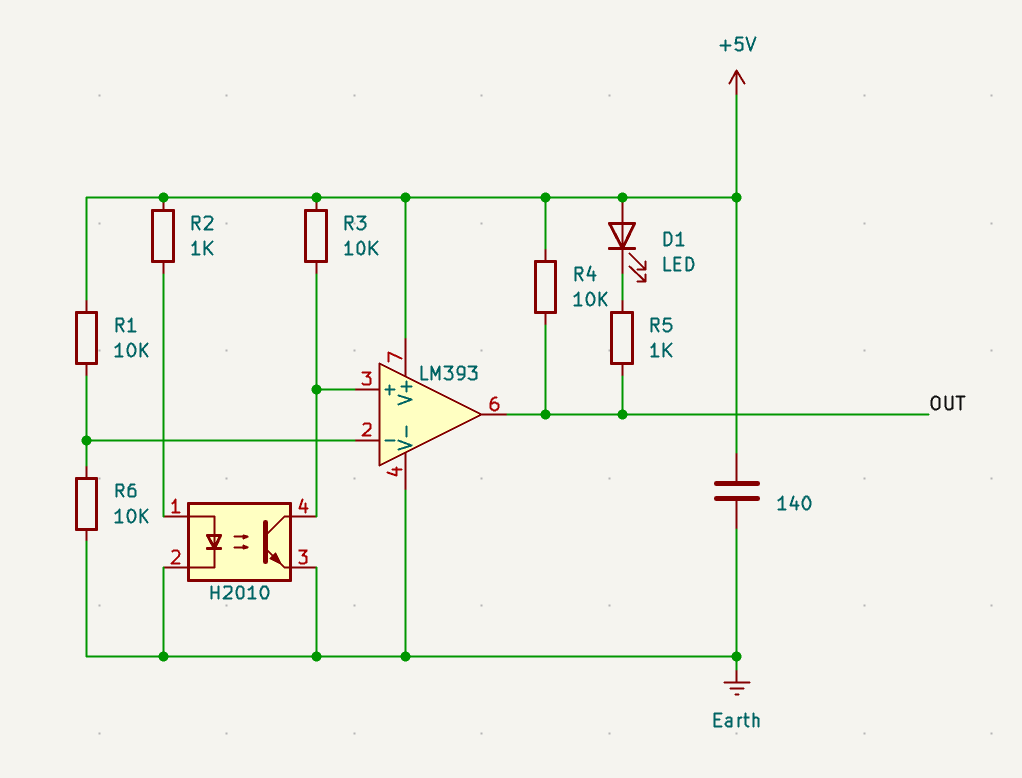
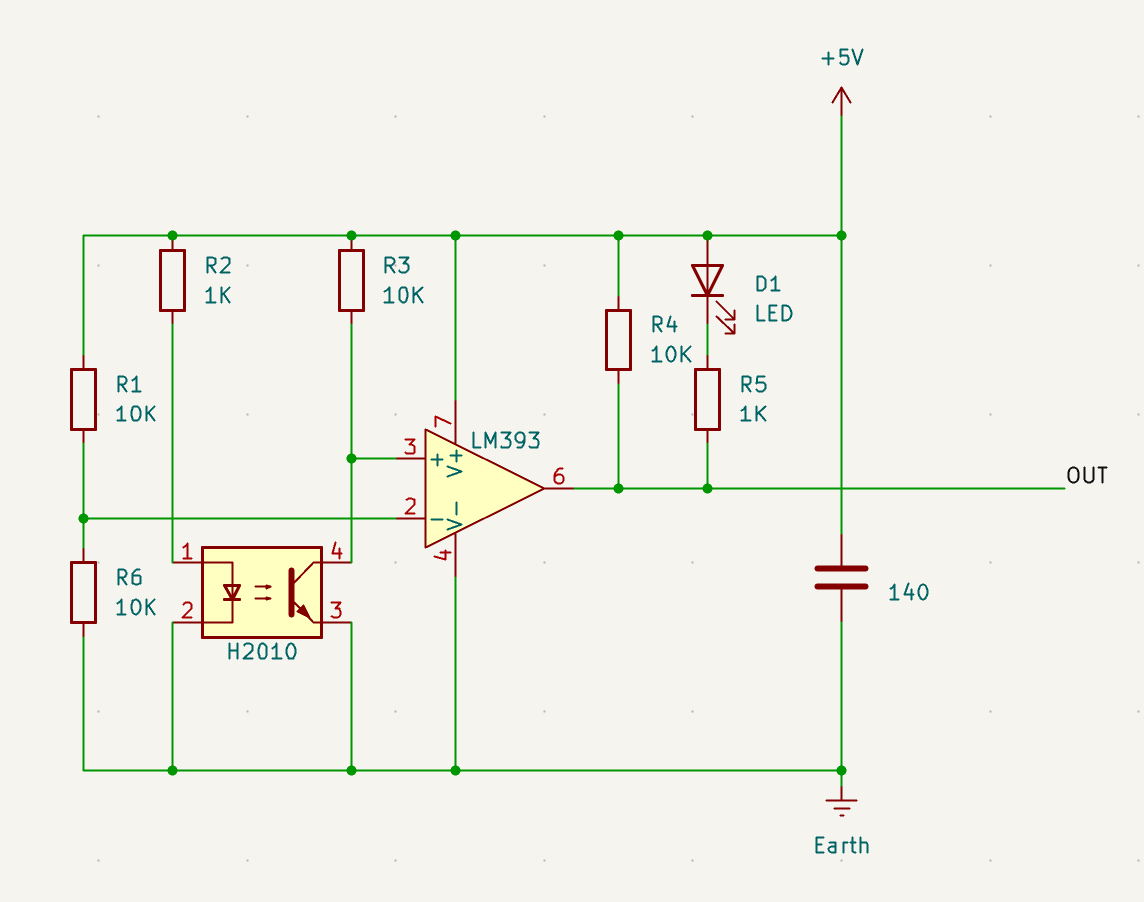
nice

Changed region(s): [[0.0607, 0.2468, 0.9706, 0.9563], [0.6977, 0.617, 0.819, 0.6787], [0.6977, 0.0308, 0.7583, 0.1234]]

diff --git a/report/Contents/General/de/LichtschrankeE118.tex b/report/Contents/General/de/LichtschrankeE118.tex
@@ -541,16 +541,7 @@ Die Einweg Lichtschranke Typ F249 (vgl. \ref{pic:F249}) ist ein Sensor zur Messu
 
 
 \subsection{Technische Daten der Lichtschranke} 
-Die Lichtschranke F249 lässt sich mittels 4 Pins an den Microkontroller anschließen. Hierzu werden die 5V Spannungsversorgung,  die Masse und die Ausgänge verbunden. Bei den Ausgängen können sowohl digitale als auch analoge Signale ausgegeben werden \cite{Roboter-Bausatz:2026c}. Abhängig vom Anwendungsfall muss lediglich ein Signalausgang mit dem Microkontroller verbunden werden. 
-
-\begin{center}
-	\begin{figure}[h!]
-		\includegraphics[scale=0.5]{../../Images/F249/F249SP.png} 
-		\caption{Schaltplan des Sensor nach \cite{SunFounder:2025}}
-		\label{pic:SchaltplanF249}
-	\end{figure}
-\end{center}
-
+Die Lichtschranke F249 lässt sich mittels 4 Pins an den Microkontroller anschließen. Hierzu werden die 5V Spannungsversorgung,  die Masse und die Ausgänge verbunden. Bei den Ausgängen können sowohl digitale als auch analoge Signale ausgegeben werden \cite{Roboter-Bausatz:2026c}. Abhängig vom Anwendungsfall muss lediglich ein Signalausgang mit dem Microkontroller verbunden werden.  
 
 \begin{table}[h!]
 	\caption{Spezifikationen des F249 Infrarot Geschwindigkeits-/Drehzahlsensors \cite{Roboter-Bausatz:2026c}}
@@ -585,11 +576,44 @@ Die Lichtschranke F249 lässt sich mittels 4 Pins an den Microkontroller anschli
 		\label{TabelleSpezifikationF249}
 	\end{center}
 \end{table}
-\subsection{Bibliothek}
-\subsubsection{Beschreibung}
+
+m Grundlegenden besteht der Sensor aus mehreren einzelnen Komponenten (vgl. \ref{pic:SchaltplanF249}). Auf der Platine befinden sich neben einer 4-poligen Pin-Steckerleiste mehrere Widerstände, eine Infrarotdiode, ein Fototransistor, eine LED sowie ein Spannungswandler. Die LEDs signalisieren in diesem Fall sowohl eine korrekte Spannungsversorgung als auch das Schaltsignal der Lichtschranke. Der Spannungswandler sorgt dabei für die Verstärkung beziehungsweise Aufbereitung der Signale, damit diese vom Mikrocontroller ausgewertet werden können. Er nutzt die halbe Versorgungsspannung als Referenzspannung und somit als Schwellwert.
+Wird der Lichtstrahl unterbrochen, fließt kein Strom mehr durch den Fototransistor und der Pull-up-Widerstand R3 zieht das Signal auf 5 $V$ nach oben. Der Spannungswandler vergleicht anschließend das Sensorsignal mit der Referenzspannung und gibt ein positives Signal aus, wenn die anliegende Spannung über der Referenzspannung liegt. Liegt die Spannung darunter, wird ein Signal von 0 $V$ ausgegeben.
+Hierbei können analoge Signale Werte zwischen 0 $V$ und der angelegten Versorgungsspannung (üblicherweise 3{,}3 $V$ oder 5 $V$) annehmen. Die vom Spannungswandler ausgegebenen digitalen Signale hingegen können lediglich die Zustände 0 oder 1 besitzen. Die LED 1 (vgl. \ref{pic:SchaltplanF249}) leuchtet zudem bei unterbrochenem Lichtstrahl \cite{Roboter-Bausatz:2026c}.  
+
+
+\begin{center}
+	\begin{figure}[h!]
+		\includegraphics[scale=0.5]{../../Images/F249/F249SP.png} 
+		\caption{Schaltplan des Sensor nach \cite{SunFounder:2025}}
+		\label{pic:SchaltplanF249}
+	\end{figure}
+\end{center}
+
+
+
+\subsection{Bibliothek \& Funktionen }
+Um schnelle Veränderungen von Signalen zuverlässig erfassen zu können, ist es sinnvoll Funktionen der Arduino IDE internen Bibliothek zu verwenden. Für schnelle Signalveränderungen, wie sie beispielsweise bei hohen Drehzahlen einer Lochscheibe vorkommen können, ist es sinnvoll die Funktion \PYTHON{attachInterrupt()} zu verwenden. 
+\PYTHON{attachInterrupt()} ist eine Arduino-Funktion, mit der ein Programm sofort auf ein Signal am Interrupt-Pin reagiert. Sobald sich das Signal ändert (z. B. von LOW auf HIGH), wird die aktuelle Programmausführung kurz unterbrochen und eine festgelegte Funktion ausgeführt. Danach läuft das Hauptprogramm weiter. Dadurch muss der Arduino das Signal nicht ständig abfragen und kann schneller und zuverlässiger auf Ereignisse reagieren, z. B. bei schnellen Sensoren wie einer Gabellichtschranke.
 \subsection{Handbuch und Inbetriebnahme des Sensors}
-Folgende Vorgehensweise kann zum Anschluss und Inbetriebnahme der Lichtschranke verwendet werden. 
+Folgende Vorgehensweise kann zum Anschluss und Inbetriebnahme der Lichtschranke verwendet werden.  
+
 \subsection{Anschlussbeispiel}
+Die F249 Gabellichtschranke wird in diesem Beispiel zur Drehzahlmessung mit einer Lochscheibe eingesetzt, die auf einer rotierenden Welle befestigt ist. Während sich die Scheibe dreht, unterbricht sie durch ihre Löcher den Lichtstrahl der Lichtschranke regelmäßig. Jede Unterbrechung erzeugt ein digitales Signal, das vom Arduino erfasst und gezählt wird. Über die Anzahl der Impulse innerhalb eines bestimmten Zeitraums kann anschließend die Drehzahl der Welle berechnet werden. Dieses Verfahren ermöglicht eine einfache und präzise berührungslose Messung der Rotationsgeschwindigkeit. 
+
+Hiefür wird die Lichtschranke mit der 5 $V$ Versorgung und der Masse des Mikrokontrolles (hier: Arduino UNO R4) verbunden. Anschließend wird das digitale Ausgang der Lichtschranke mit dem digitalen Eingang 4 des Arduinos verbunden (vgl. \ref{pic:F249Anschluss}) 
+
+\begin{center}
+	\begin{figure}
+		\includegraphics[scale=0.8]{../../Images/F249/F249Anschluss} 
+		\caption{Anschluss der Lichtschranke an einen Arduino Uno R4 zur Messung von Drehzahl} 
+		\caption{pic:F249Anschluss}
+	\end{figure}
+\end{center}
+
+
+
+
 \subsection{Code}
 
 %\subsection{Files}